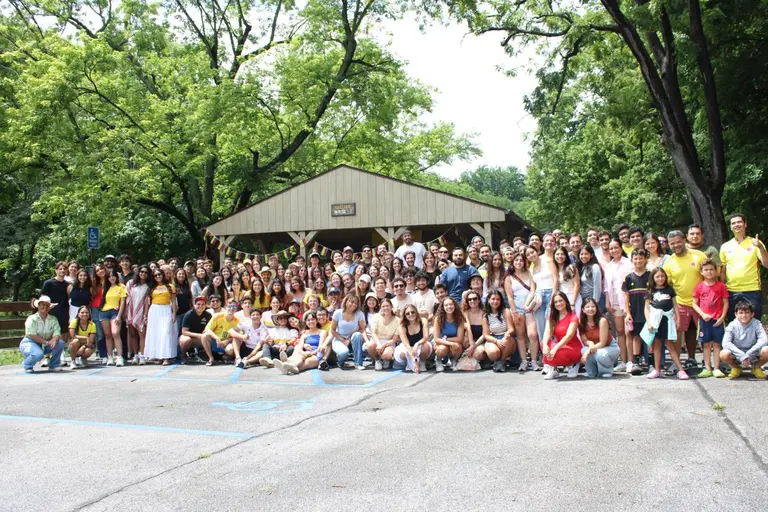
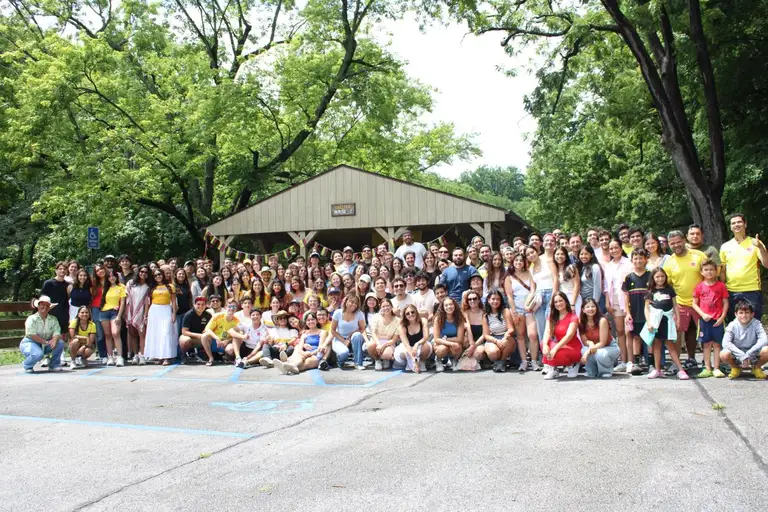
preload hero fonts and compress images

diff --git a/index.html b/index.html
@@ -10,6 +10,8 @@
   <link rel="preconnect" href="https://cdnjs.cloudflare.com" />
   <link rel="preconnect" href="https://w.behold.so" />
   <link rel="preconnect" href="https://feeds.behold.so" />
+  <link rel="preload" href="https://fonts.gstatic.com/s/plusjakartasans/v12/LDIoaomQNQcsA88c7O9yZ4KMCoOg4Ko20yw.woff2" as="font" type="font/woff2" crossorigin />
+  <link rel="preload" href="https://fonts.gstatic.com/s/dancingscript/v29/If2RXTr6YS-zF4S-kcSWSVi_szLgiuE.woff2" as="font" type="font/woff2" crossorigin />
   <link rel="stylesheet" href="css/styles.css" />
   <style>
     /* ── Hero Video ────────────────────────────────────── */
